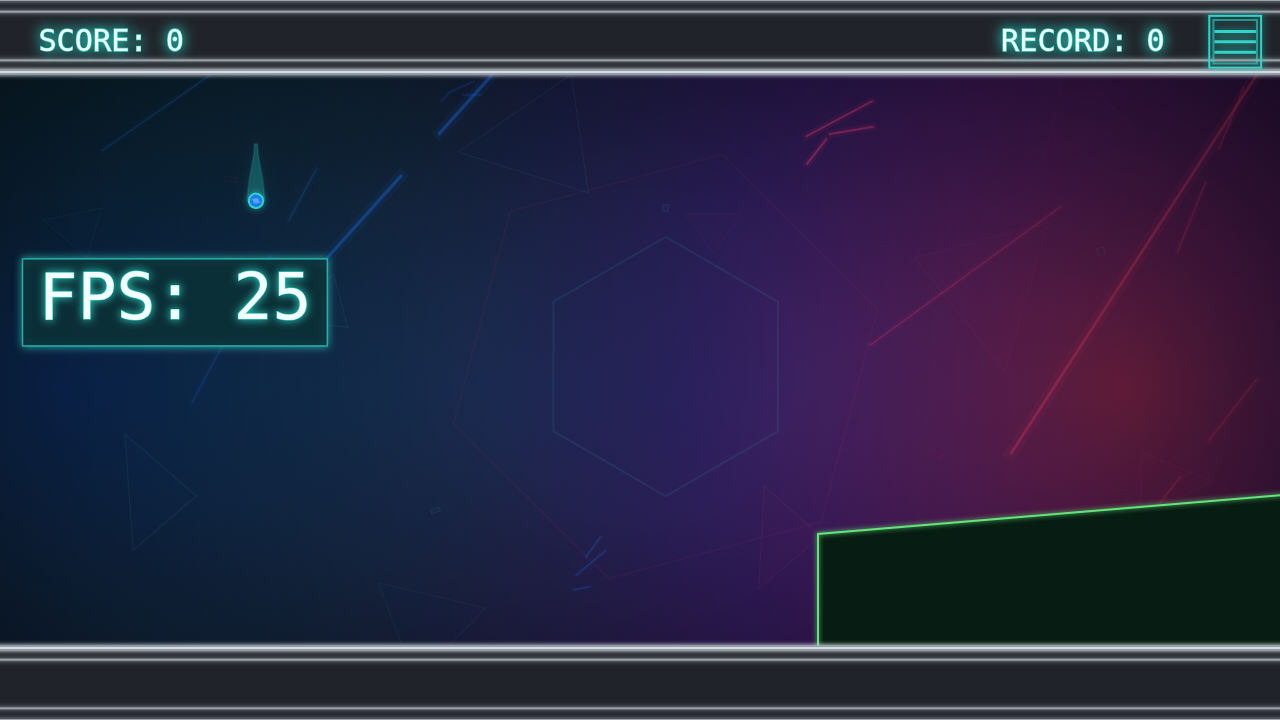
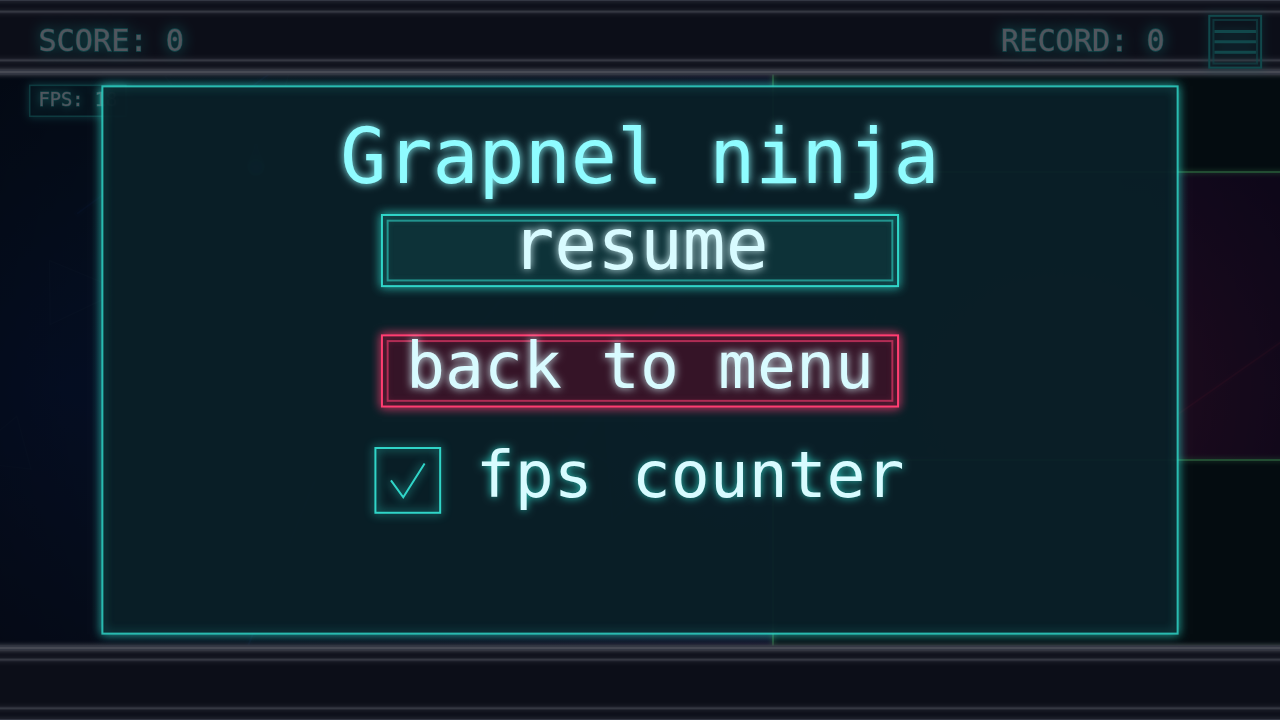
TASK-091: restore small gameplay FPS counter

diff --git a/style.js b/style.js
@@ -142,9 +142,9 @@ const STYLE = Object.freeze({
         hudClearTopRatio: 0.14,
         badCeilingBandRatio: 0.2,
         fpsXRatio: 0.03,
-        fpsYRatio: 0.42,
-        fpsFontRatio: 0.09,
-        fpsPaddingRatio: 0.022,
+        fpsYRatio: 0.125,
+        fpsFontRatio: 0.026,
+        fpsPaddingRatio: 0.012,
         fpsPanelLineWidth: 1.5,
         fpsUpdateMs: 250
     }),

diff --git a/progress.md b/progress.md
@@ -161,3 +161,4 @@ TASK-092: Made blue cube inset shells opaque in classic and bad render paths; br
 TASK-093: Randomized cached background flash positions uniformly across the full canvas with resets on each version start, preserved left/right palette selection, verified classic and bad browser probes plus screenshots/TASK-093.png. Gotcha: random positions stay stable within a refresh bucket to avoid frame-to-frame flicker.
 TASK-094: Randomized decorative background triangle positions in the shared background renderer, verified classic/bad sampled coverage and side-based palettes, inspected screenshots/TASK-094.png, no JS console errors, and valid JSON. Gotcha: triangle coordinates are cached per refresh bucket/reset like flashes, so screenshots show one representative randomized draw.
 TASK-095: Added portrait-phone forced landscape canvas presentation with rotated viewport styling and coordinate remapping; verified five portrait screenshots, bad-version/menu click targets, landscape non-rotation, no JS console errors, and valid JSON. Gotcha: portrait screenshots remain portrait image files, but the game content is visibly rotated/presented as landscape inside them.
+TASK-091: Restored the live gameplay FPS counter to its smaller pre-task sizing while keeping main/pause FPS checkbox text and square matched to back-to-menu text; verified classic/bad toggles, inspected screenshots/TASK-091.png, no JS errors, and valid JSON. Gotcha: the latest acceptance note says only menu texts should be enlarged, so the tiny in-game FPS panel is intentional.
